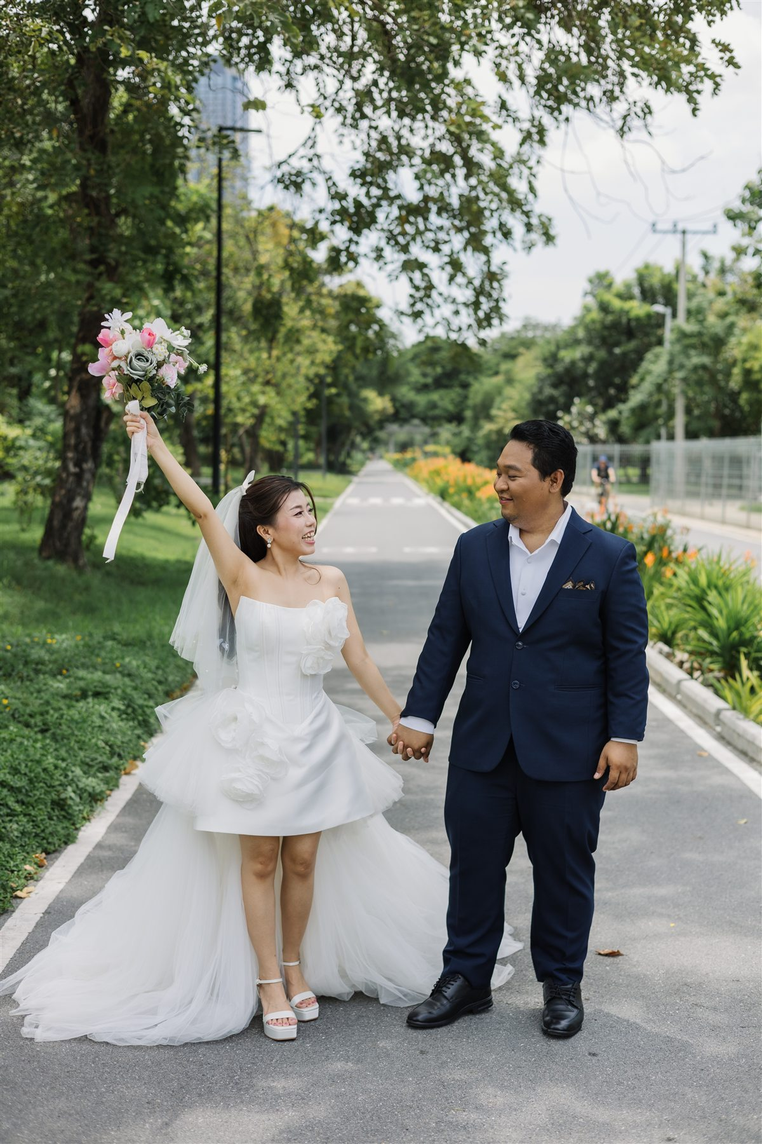
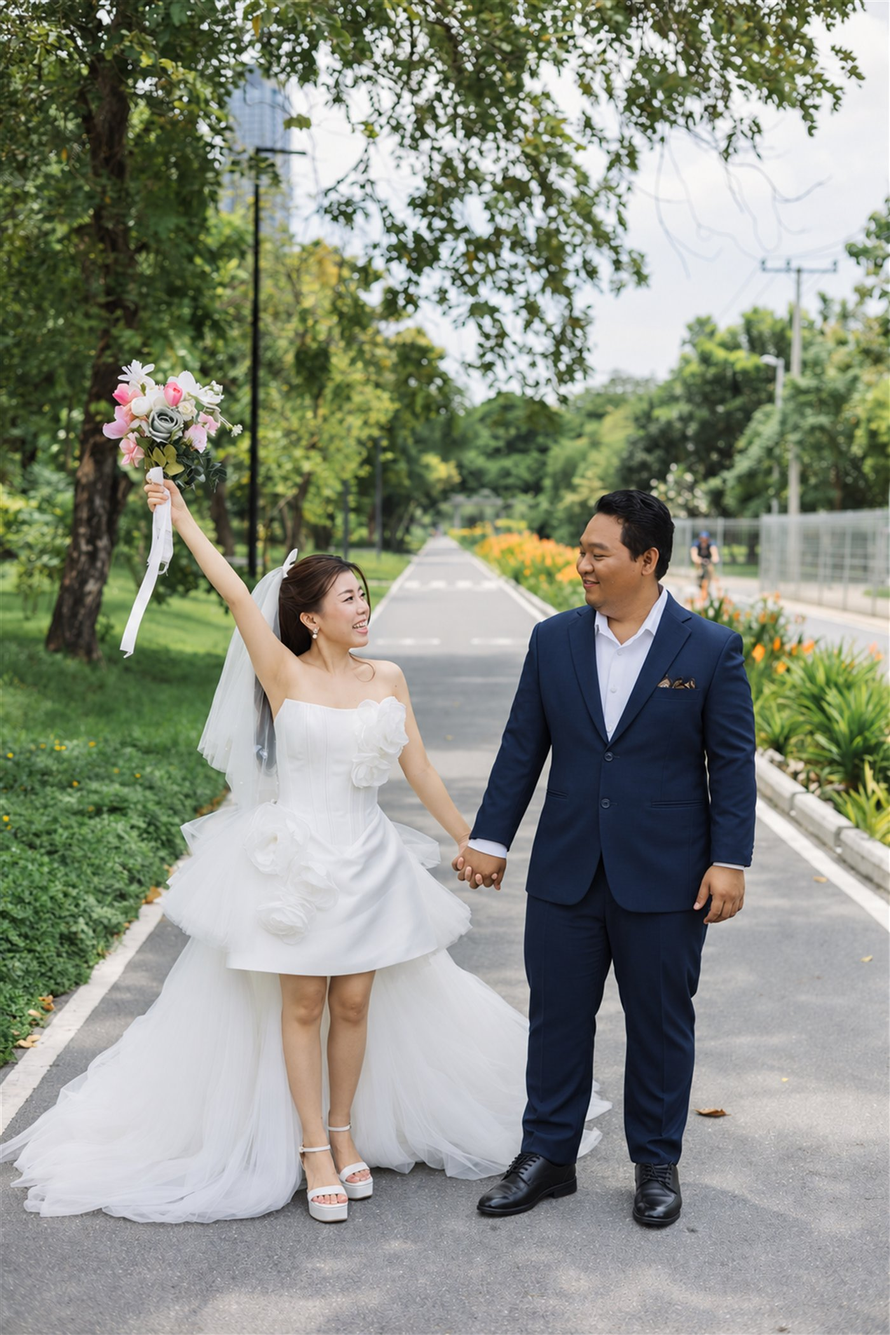
Refresh invitation with enhanced photo set

diff --git a/photo-config.js b/photo-config.js
@@ -7,7 +7,7 @@ window.WEDDING_PHOTOS = {
   enabled: true,
   moments: [
     {
-      src: "assets/photos/our-story-01.jpg",
+      src: "assets/photos/our-story-01.jpg?v=enhanced-1",
       focus: "50% 38%",
       alt: {
         en: "Ye and Nang smiling with their foreheads touching in wedding attire",
@@ -21,7 +21,7 @@ window.WEDDING_PHOTOS = {
       }
     },
     {
-      src: "assets/photos/our-story-02.jpg",
+      src: "assets/photos/our-story-02.jpg?v=enhanced-1",
       focus: "50% 48%",
       alt: {
         en: "Nang raises her bouquet while Ye looks at her on a tree-lined road",
@@ -35,7 +35,7 @@ window.WEDDING_PHOTOS = {
       }
     },
     {
-      src: "assets/photos/our-story-03.jpg",
+      src: "assets/photos/our-story-03.jpg?v=enhanced-1",
       focus: "50% 50%",
       alt: {
         en: "Ye and Nang in graduation gowns looking up at the camera",
@@ -49,7 +49,7 @@ window.WEDDING_PHOTOS = {
       }
     },
     {
-      src: "assets/photos/our-story-04.jpg?v=standing-2",
+      src: "assets/photos/our-story-04.jpg?v=enhanced-1",
       focus: "50% 50%",
       alt: {
         en: "Ye and Nang standing together in formal wedding attire against a deep red backdrop",
@@ -63,7 +63,7 @@ window.WEDDING_PHOTOS = {
       }
     },
     {
-      src: "assets/photos/our-story-05.jpg?v=2604-2",
+      src: "assets/photos/our-story-05.jpg?v=enhanced-1",
       focus: "50% 50%",
       alt: {
         en: "Ye and Nang posing together in a black tuxedo and white wedding gown against a soft gray backdrop",
@@ -77,7 +77,7 @@ window.WEDDING_PHOTOS = {
       }
     },
     {
-      src: "assets/photos/our-story-06.jpg?v=portrait-2",
+      src: "assets/photos/our-story-06.jpg?v=enhanced-1",
       focus: "50% 50%",
       alt: {
         en: "Ye and Nang smiling with a white bouquet in light wedding attire",
@@ -92,7 +92,7 @@ window.WEDDING_PHOTOS = {
     }
   ],
   shareImage: {
-    src: "assets/photos/share-ye-nang.jpg",
+    src: "assets/photos/share-ye-nang.jpg?v=enhanced-1",
     focus: "50% 38%"
   }
 };

diff --git a/index.html b/index.html
@@ -13,11 +13,11 @@
     <meta property="og:title" content="Ye &amp; Nang's Wedding Invitation" />
     <meta property="og:description" content="Join Ye and Nang on Sunday, 8 November 2026. Please RSVP by 30 September 2026." />
     <meta property="og:url" content="https://librandshop.github.io/ye-and-nang/" />
-    <meta property="og:image" content="https://librandshop.github.io/ye-and-nang/assets/photos/share-ye-nang.jpg" />
+    <meta property="og:image" content="https://librandshop.github.io/ye-and-nang/assets/photos/share-ye-nang.jpg?v=enhanced-1" />
     <meta property="og:image:width" content="1200" />
     <meta property="og:image:height" content="630" />
     <meta name="twitter:card" content="summary_large_image" />
-    <meta name="twitter:image" content="https://librandshop.github.io/ye-and-nang/assets/photos/share-ye-nang.jpg" />
+    <meta name="twitter:image" content="https://librandshop.github.io/ye-and-nang/assets/photos/share-ye-nang.jpg?v=enhanced-1" />
     <link rel="preconnect" href="https://fonts.googleapis.com" />
     <link rel="preconnect" href="https://fonts.gstatic.com" crossorigin />
     <link
@@ -474,7 +474,7 @@
     </footer>
     <button class="sound-toggle" type="button" aria-pressed="false" hidden><span class="sound-toggle__icon" aria-hidden="true">♪</span><span class="sound-toggle__label">Play music</span></button>
     <button class="motion-toggle" type="button" aria-pressed="false" hidden><span class="motion-toggle__icon" aria-hidden="true">Ⅱ</span><span class="motion-toggle__label">Pause motion</span></button>
-    <script src="photo-config.js?v=20260918-closing-portrait-5"></script>
+    <script src="photo-config.js?v=20260918-enhanced-set-6"></script>
     <script src="rsvp-config.js?v=20260916-secure-rsvp-2"></script>
     <script src="script.js?v=20260918-story-copy-12"></script>
   </body>

diff --git a/PHOTO-GUIDE.md b/PHOTO-GUIDE.md
@@ -4,14 +4,14 @@ The invitation photo chapter is enabled in `photo-config.js` and displays five o
 
 | Invitation file | Original | Role | Crop focus |
 | --- | --- | --- | --- |
-| `our-story-01.jpg` | `455A2487.jpg` | Principal intimate portrait | `50% 38%` |
-| `our-story-02.jpg` | `455A2407.jpg` | Joyful outdoor portrait | `50% 48%` |
-| `our-story-03.jpg` | `455A2546.jpg` | Graduation chapter | `50% 50%` |
-| `our-story-04.jpg` | `455A2626.jpg` | Both-standing red studio portrait | `50% 50%` |
-| `our-story-05.jpg` | `455A2604.jpg` | Black tuxedo and full white gown closing portrait | `50% 50%` |
-| `our-story-06.jpg` | `455A2717.jpg` | Playful bouquet portrait | `50% 50%` |
+| `our-story-01.jpg` | `photos/3.jpg` | Enhanced principal intimate portrait | `50% 38%` |
+| `our-story-02.jpg` | `photos/1.jpg` | Enhanced joyful outdoor portrait | `50% 48%` |
+| `our-story-03.jpg` | `photos/5.jpg` | Enhanced graduation chapter | `50% 50%` |
+| `our-story-04.jpg` | `photos/10.jpg` | Enhanced both-standing red studio portrait | `50% 50%` |
+| `our-story-05.jpg` | `photos/9.jpg` | Enhanced black tuxedo and full white gown closing portrait | `50% 50%` |
+| `our-story-06.jpg` | `photos/15.jpg` | Enhanced playful bouquet portrait | `50% 50%` |
 
-`share-ye-nang.jpg` is a 1200 × 630 social-sharing crop derived from `455A2487.jpg`. It is referenced by the Open Graph and Twitter image metadata in `index.html`.
+`share-ye-nang.jpg` is a 1200 × 630 social-sharing crop derived from enhanced source `photos/3.jpg`. It is referenced by the Open Graph and Twitter image metadata in `index.html`.
 
 The website copies are resized and metadata-free for faster loading. Preserve the original full-resolution photographs outside the repository. When replacing a photograph, keep its invitation filename or update `photo-config.js`, provide English, Thai and Burmese alternative text, and check both the 5:6 feature crop and 4:5 phone crop.
 

diff --git a/HANDOVER.md b/HANDOVER.md
@@ -17,7 +17,9 @@ The invitation is a static GitHub Pages site presented as an animated editorial 
 
 Six optimized photographs from `assets/photos/` form a cinematic story across the invitation. Each photograph has its own section: the full-screen opening, road portrait, graduation portrait, bouquet portrait sourced from `455A2717.jpg`, red studio portrait and closing portrait before RSVP. Captions and alternative text are localized. `PHOTO-GUIDE.md` records the originals, crop focus and social-sharing image.
 
-The post-countdown closing portrait is sourced from `455A2604.jpg` and preserves its full 2:3 gown composition. Countdown numerals use deep wine ink inside pearl medallions for accessible contrast.
+The post-countdown closing portrait is sourced from enhanced `photos/9.jpg` and preserves its full 2:3 gown composition. Countdown numerals use deep wine ink inside pearl medallions for accessible contrast.
+
+All six live photographs were refreshed from the enhanced masters in `photos/`: `3.jpg`, `1.jpg`, `5.jpg`, `10.jpg`, `9.jpg` and `15.jpg`. The optimized invitation copies retain the existing scene filenames, and the social-sharing image was rebuilt from enhanced `3.jpg`.
 
 The envelope exterior uses `assets/pink-envelope-bloom-garden.webp`: an asymmetrical pink-flower-only arrangement with no green foliage. The red studio chapter uses `455A2626.jpg`, where both people are standing.
 
